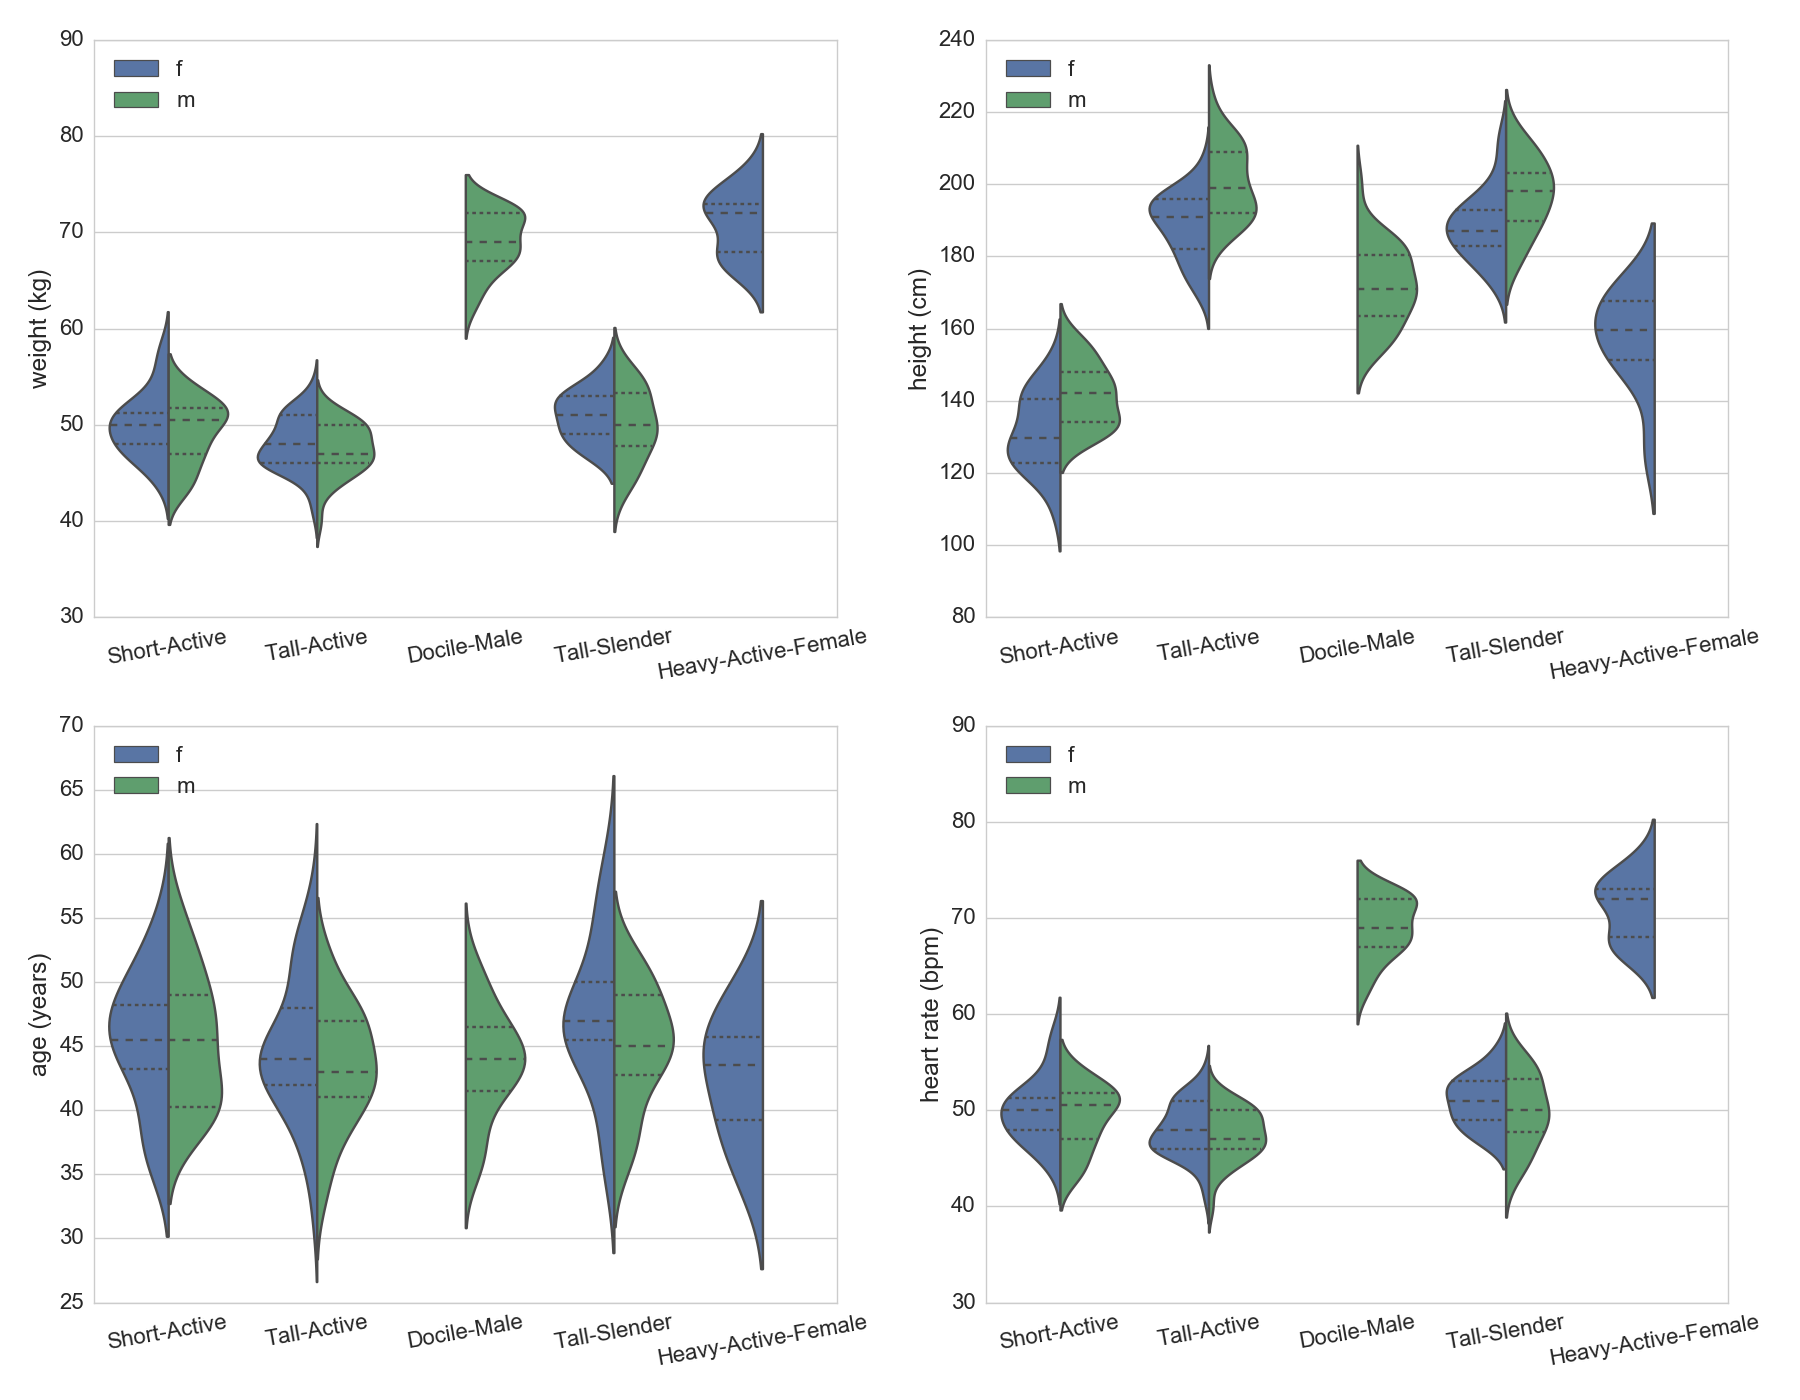
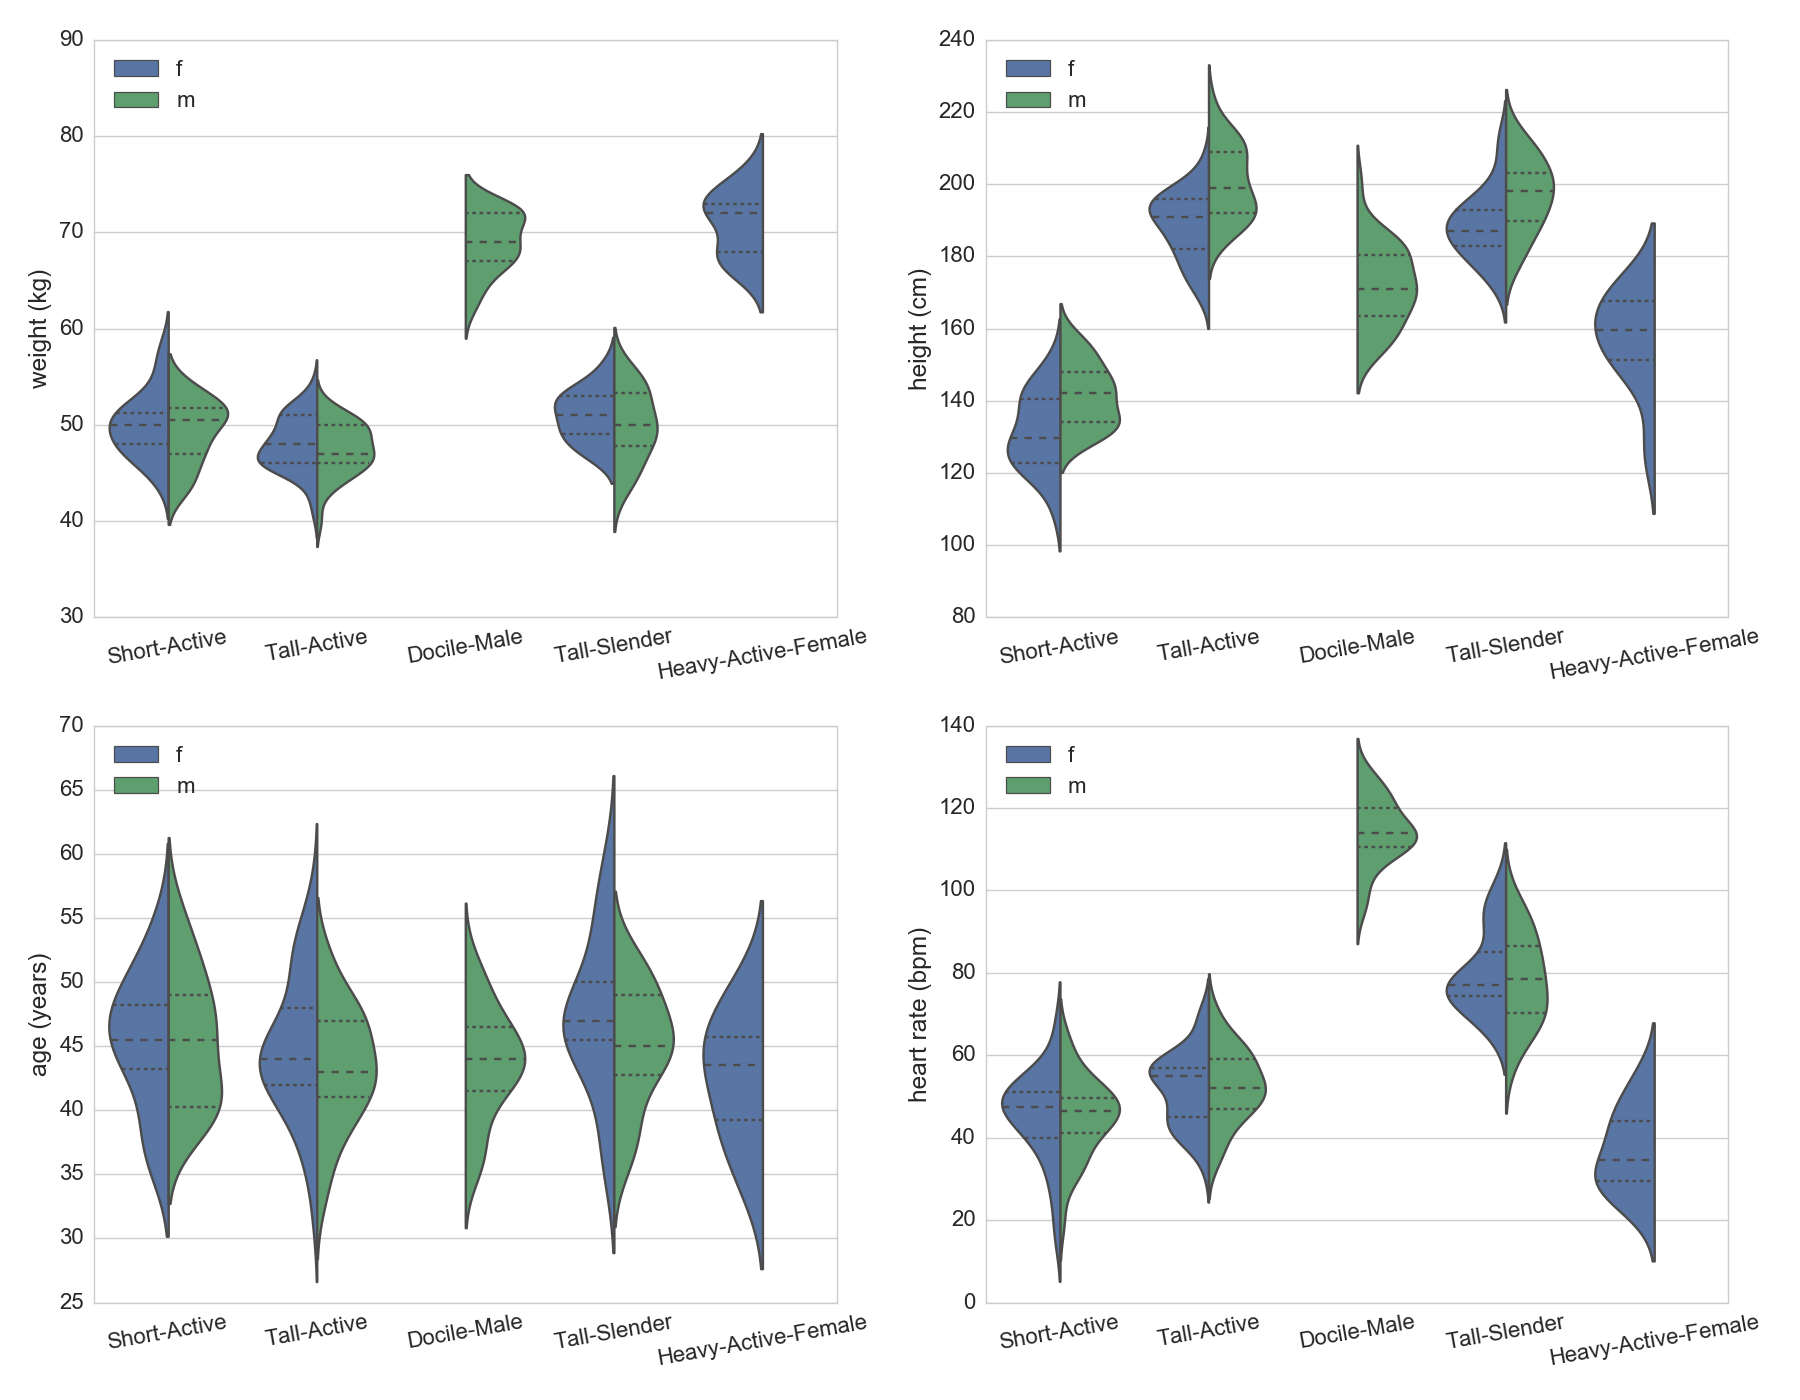
fixed bug in violin plot

Changed region(s): [[0.7467, 0.5221, 0.9333, 0.8907], [0.4978, 0.6757, 0.7156, 0.8907]]

diff --git a/plotting.py b/plotting.py
@@ -60,7 +60,7 @@ def pairplot_kde(df):
     plt.savefig(os.path.join(FIG_PATH, 'pairplot_kde.png'), dpi=100)
     
     
-def violin_subplot(ax, p, ylab):
+def violin_subplot(ax, df, p, ylab):
     sns.violinplot(x='group', y=p, hue='gender', axis=1, data=df, 
                    split=True, inner="quart", ax=ax)
     plt.xticks(rotation=10)
@@ -72,13 +72,13 @@ def violin_subplot(ax, p, ylab):
 def violin(df):
     fig = plt.figure(figsize=[18,14])
     ax = plt.subplot(221)
-    violin_subplot(ax, 'weight', 'weight (kg)')
+    violin_subplot(ax, df, 'weight', 'weight (kg)')
     ax = plt.subplot(222)
-    violin_subplot(ax, 'height', 'height (cm)')
+    violin_subplot(ax, df, 'height', 'height (cm)')
     ax = plt.subplot(223)
-    violin_subplot(ax, 'age', 'age (years)')
+    violin_subplot(ax, df, 'age', 'age (years)')
     ax = plt.subplot(224)
-    violin_subplot(ax, 'weight', 'heart rate (bpm)')
+    violin_subplot(ax, df, 'heartrate', 'heart rate (bpm)')
     fig.tight_layout()
     plt.savefig(os.path.join(FIG_PATH, 'violin.png'), dpi=100)
     
